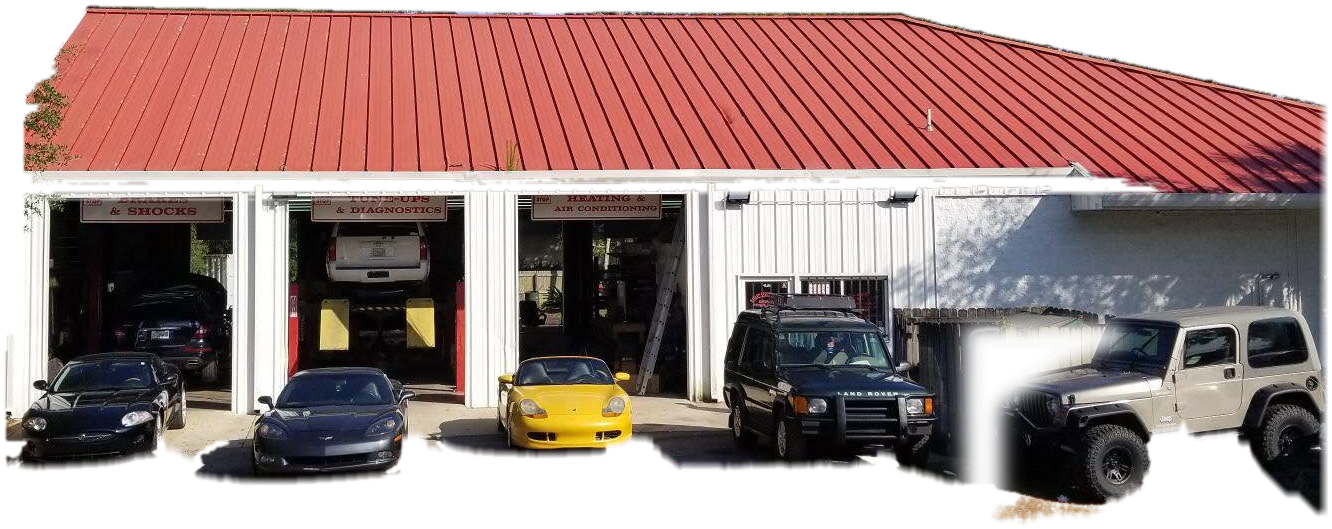
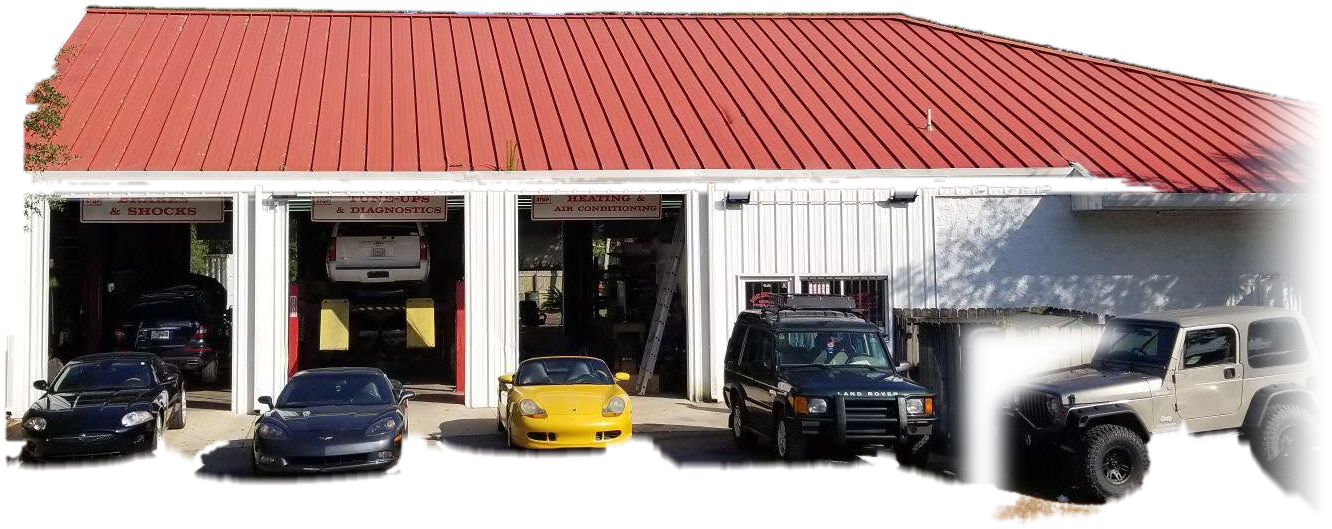
Let the hero glow fade out and soften the cutout's right edge. (#4)
The red wash was clipped at 80% of the hero, so a hard horizontal line sat just under the roof and ran to the right edge of the screen. The glow now falls off inside the hero, and the wall past the Jeep dissolves instead of ending in a vertical cut.

Changed region(s): [[0.9234, 0.1512, 1.0, 0.9981]]

diff --git a/css/styles.css b/css/styles.css
@@ -268,11 +268,10 @@ h2 { font-size: clamp(2.6rem, 5vw, 4.4rem); }
 }
 .hero-bg {
   position: absolute;
-  inset: -10% 0 auto;
-  height: 80%;
+  inset: 0;
   background:
-    radial-gradient(ellipse at 70% 80%, rgba(216, 56, 48, 0.38), transparent 46%),
-    radial-gradient(ellipse at 20% 10%, rgba(255, 255, 255, 0.05), transparent 40%);
+    radial-gradient(ellipse 78% 62% at 70% 52%, rgba(216, 56, 48, 0.42) 0%, rgba(216, 56, 48, 0.14) 46%, transparent 74%),
+    radial-gradient(ellipse 46% 36% at 16% 0%, rgba(255, 255, 255, 0.05), transparent 70%);
   pointer-events: none;
 }
 .hero-copy { position: relative; z-index: 2; }
@@ -307,12 +306,12 @@ h2 { font-size: clamp(2.6rem, 5vw, 4.4rem); }
 .hero-glow {
   position: absolute;
   left: 50%;
-  bottom: 0;
-  width: 70%;
-  height: 22%;
+  bottom: -8%;
+  width: 78%;
+  height: 46%;
   transform: translateX(-50%);
-  background: radial-gradient(ellipse, rgba(216, 56, 48, 0.55), rgba(216, 56, 48, 0) 68%);
-  filter: blur(8px);
+  background: radial-gradient(ellipse at 50% 70%, rgba(216, 56, 48, 0.5), rgba(216, 56, 48, 0) 70%);
+  filter: blur(18px);
   pointer-events: none;
 }
 .hero-parallax {
